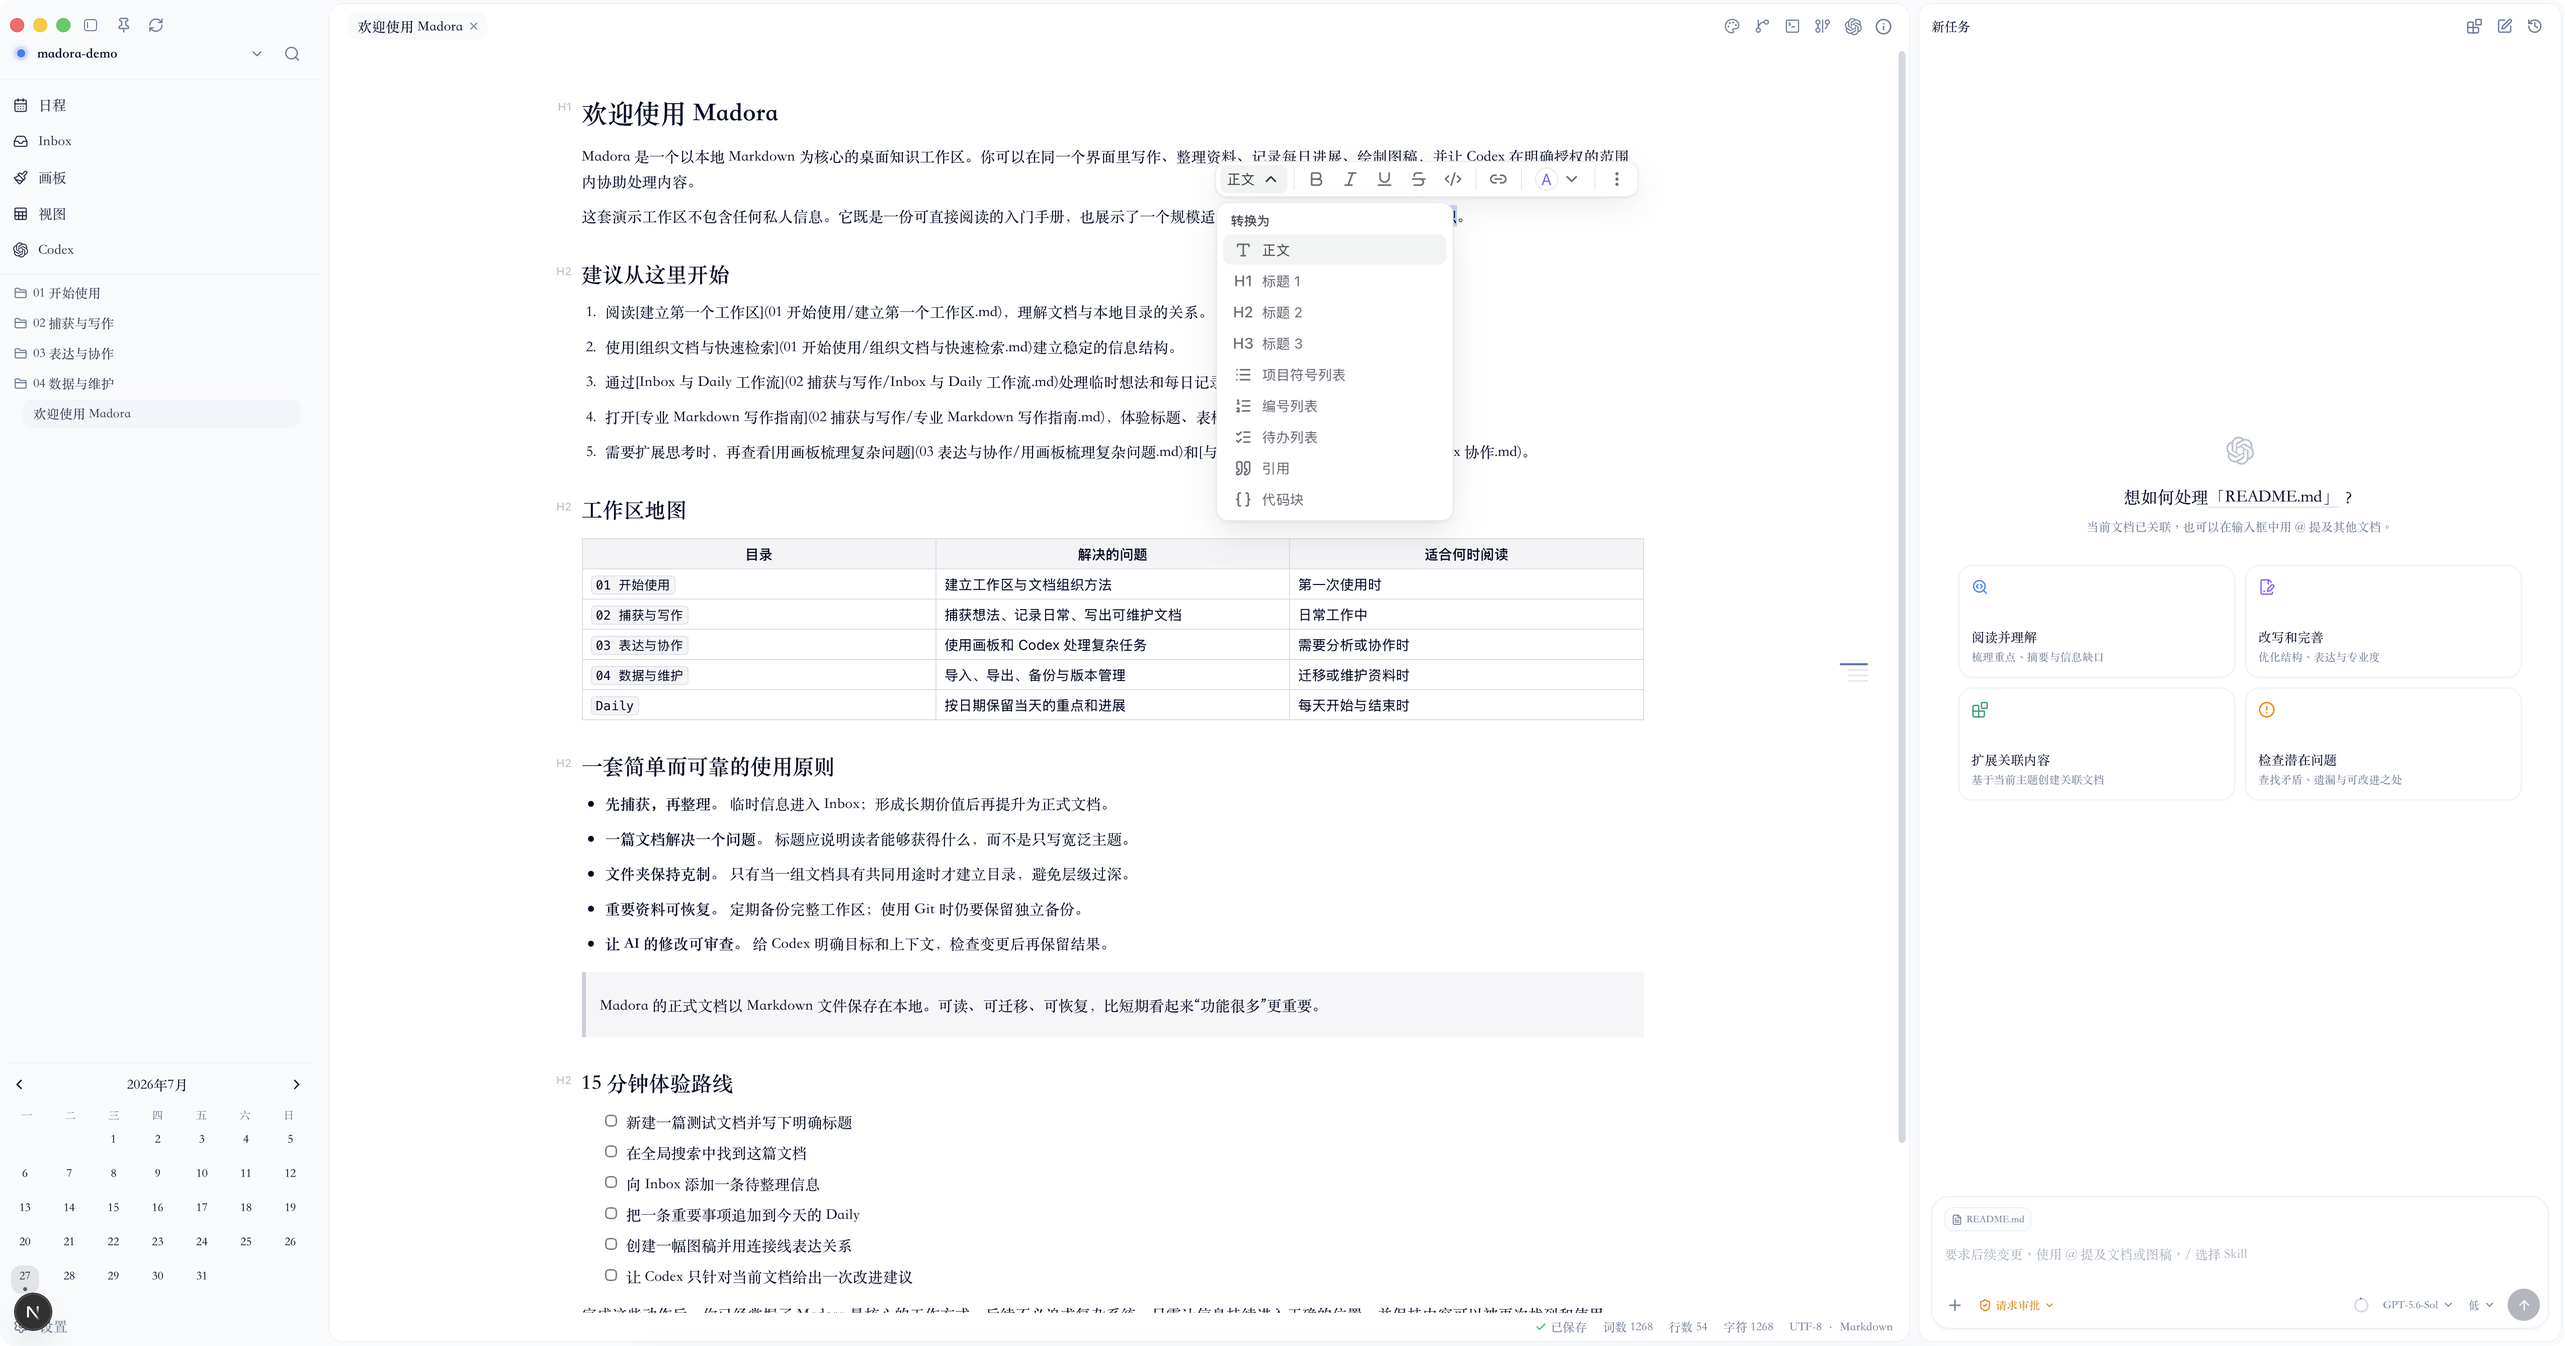
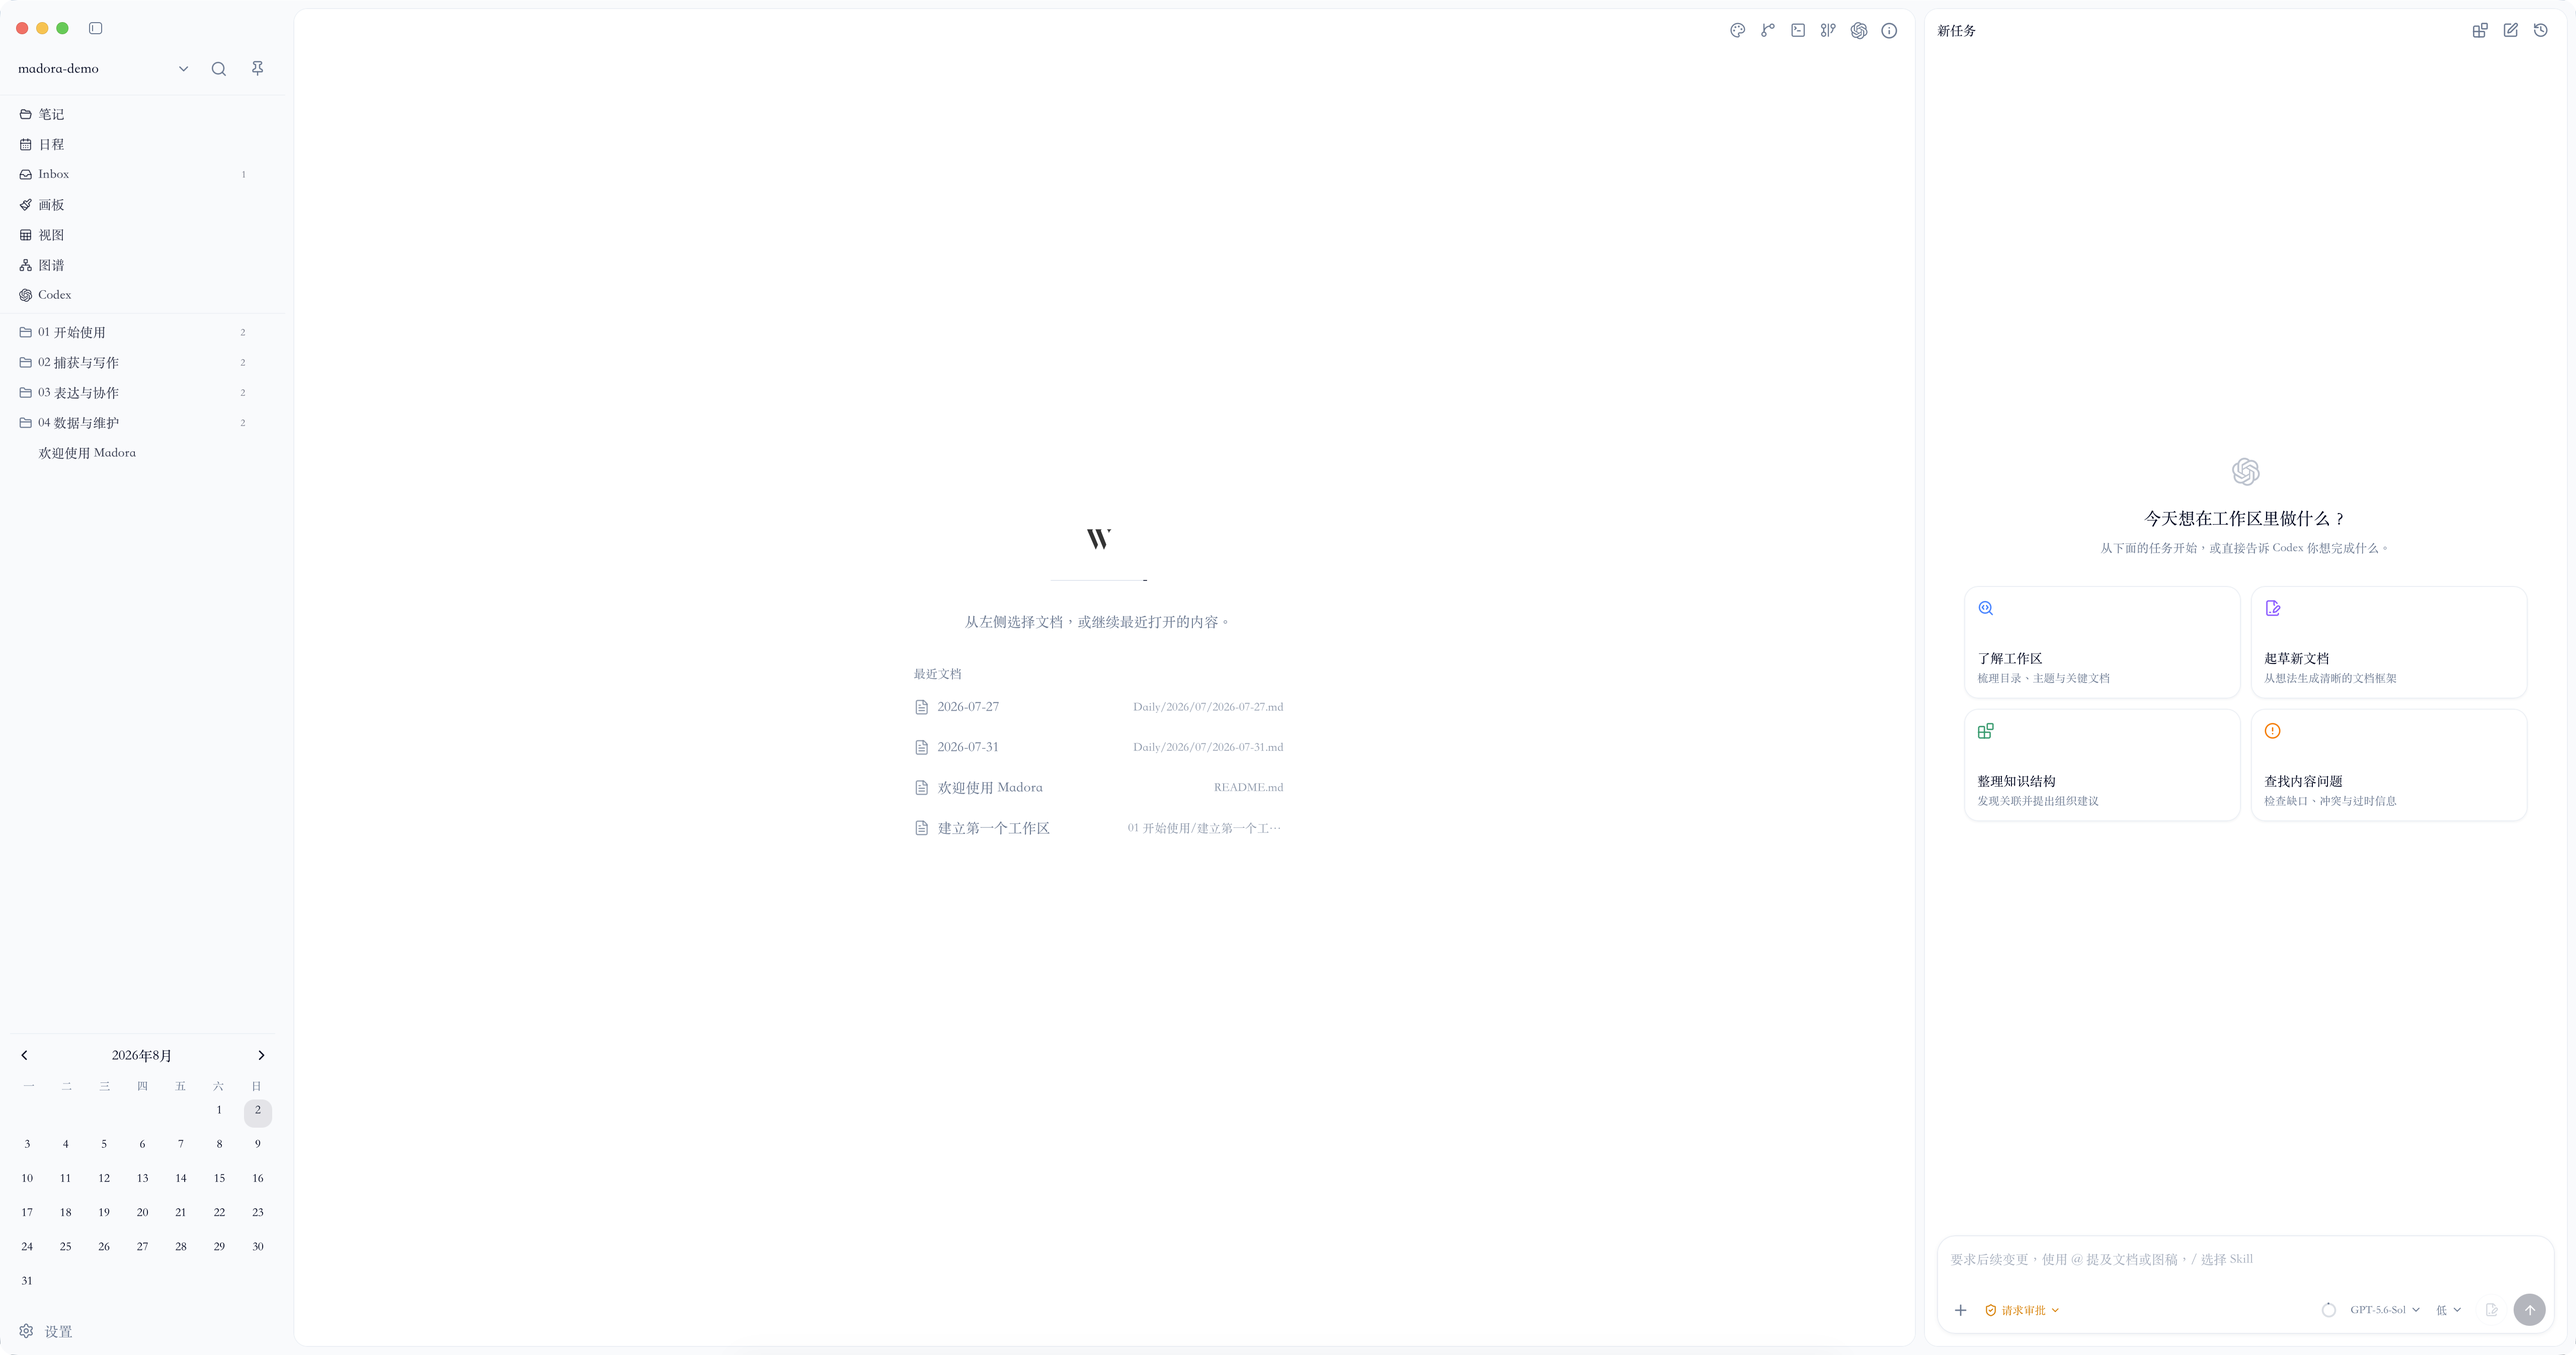
feat(home): 更新首页标题和描述以更好地反映 Madora 的功能; 更新端到端测试以验证新内容

diff --git a/src/app/page.tsx b/src/app/page.tsx
@@ -12,8 +12,8 @@ import { blogPosts } from "@/content/blog";
 import { siteConfig } from "@/content/site";
 
 export const metadata: Metadata = {
-  title: { absolute: `${siteConfig.name} — 组织工作，协同团队，高效交付` },
-  description: "Madora 将任务、时间线与团队沟通集中到一个专注的工作区中。",
+  title: { absolute: `${siteConfig.name} — 写下想法，让工作自然展开` },
+  description: "Madora 是以本地 Markdown 为核心的桌面工作区：写作、知识整理、日程、图谱、画板与 Codex 协作，在同一处连续完成。",
 };
 
 const capabilities = [
@@ -52,8 +52,8 @@ export default function HomePage() {
       <section className="home-hero">
         <div className="container hero-copy hero-copy--enter">
           <div className="hero-main-copy">
-            <h1>组织工作，协同团队，<br />更高效地交付。</h1>
-            <p>Madora 将任务、时间线与团队沟通集中到一个专注的工作区中。</p>
+            <h1>写下想法，<br />让工作自然展开。</h1>
+            <p>Madora 是以本地 Markdown 为核心的桌面工作区：写作、知识整理、日程、图谱、画板与 Codex 协作，在同一处连续完成。</p>
           </div>
           <div className="hero-actions">
             <ButtonLink href={siteConfig.downloadHref}>下载 <ArrowRight aria-hidden size={15} /></ButtonLink>

diff --git a/tests/e2e/site.spec.ts b/tests/e2e/site.spec.ts
@@ -39,6 +39,8 @@ for (const route of routes) {
 
 test("home interactions work with keyboard and links", async ({ page }, testInfo) => {
   await page.goto("/");
+  await expect(page.locator(".hero-main-copy h1")).toContainText("写下想法，让工作自然展开。");
+  await expect(page.getByText("Madora 是以本地 Markdown 为核心的桌面工作区：写作、知识整理、日程、图谱、画板与 Codex 协作，在同一处连续完成。", { exact: true })).toBeVisible();
   const technologyStack = page.getByRole("region", { name: "Madora 技术栈" });
   await expect(technologyStack).toContainText("Madora 基于以下核心技术栈构建");
   await expect(technologyStack.locator(".client-logo--technology")).toHaveCount(16);
